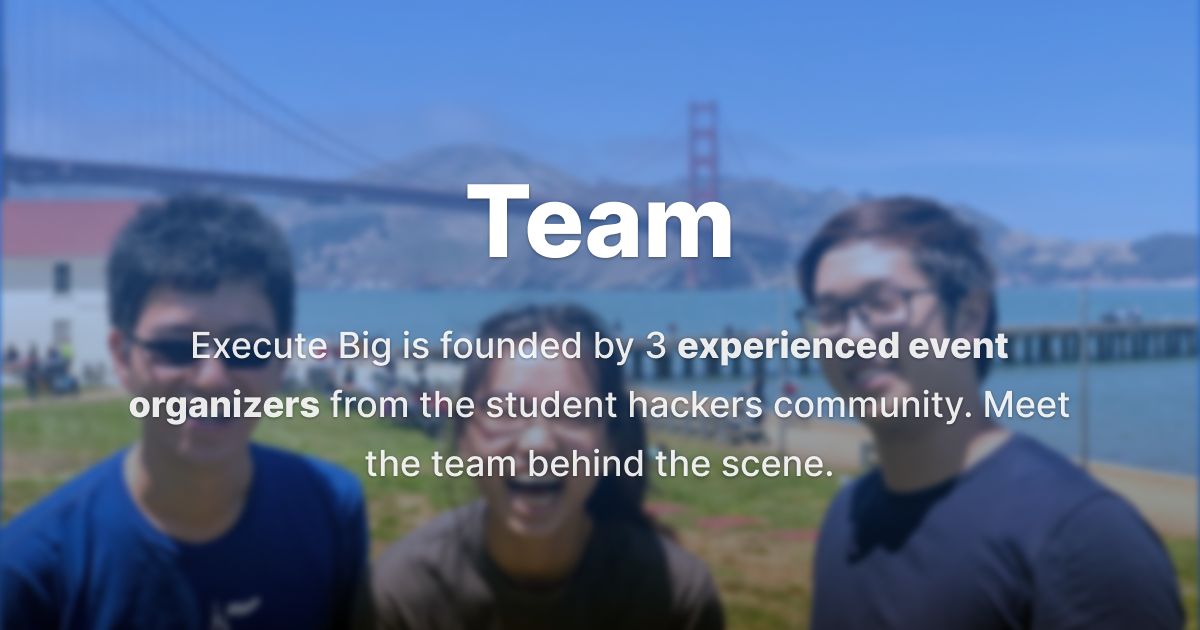
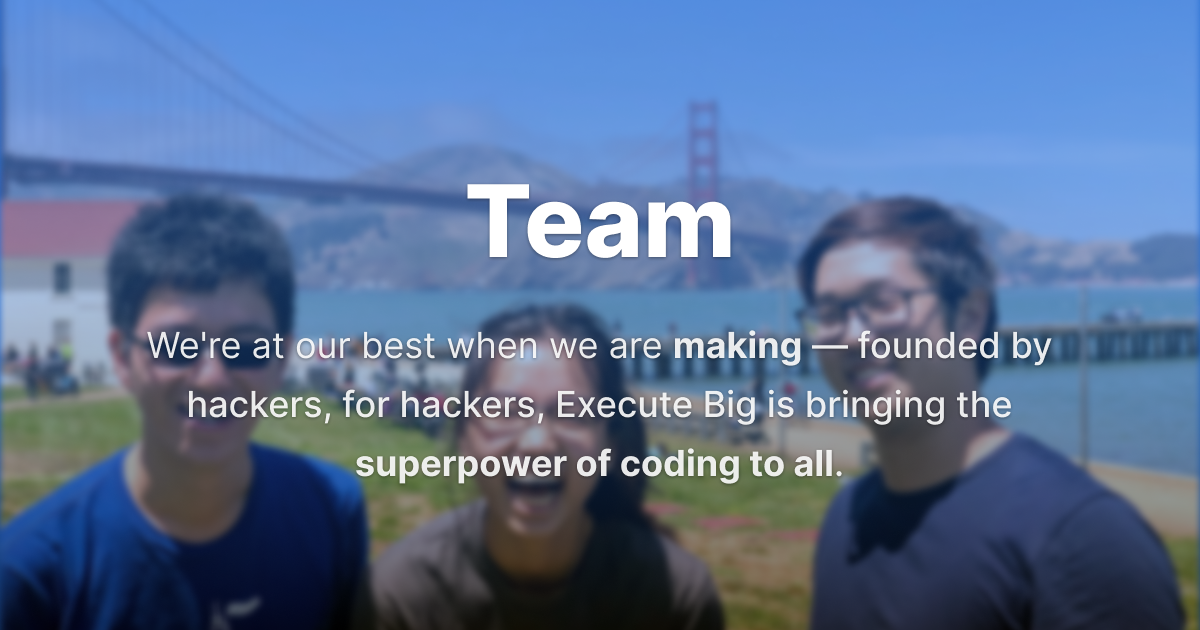
Update copy

Changed region(s): [[0.1233, 0.5127, 0.8942, 0.6032], [0.0925, 0.6032, 0.8942, 0.6937], [0.2775, 0.6937, 0.7092, 0.7841]]

diff --git a/layouts/team/team.html b/layouts/team/team.html
@@ -25,7 +25,7 @@
           <p class="title">Team
           </p>
           <p class="subtitle">
-            Execute Big is founded by 3 <strong>experienced event organizers</strong> from the student hackers community. Meet the team behind the scene.
+            We're at our best when we are <strong>making</strong> — founded by hackers, for hackers, Execute Big is bringing the <strong>superpower of coding to all</strong>.
           </p>
         </div>
       </div>

diff --git a/content/team/_index.md b/content/team/_index.md
@@ -3,7 +3,7 @@ type: team
 layout: team
 
 title: Team | Execute Big
-description: Execute Big is founded by 3 experienced event organizers from the student hackers’ community. Meet the team behind the scene.
+description: We're at our best when we are making — founded by hackers, for hackers, Execute Big is bringing the superpower of coding to all.
 keywords: execute,education,private school,hackathon,non-profit,innovation,program,programming,coding,school,impact,create
 card: img/cards/team.png
 
